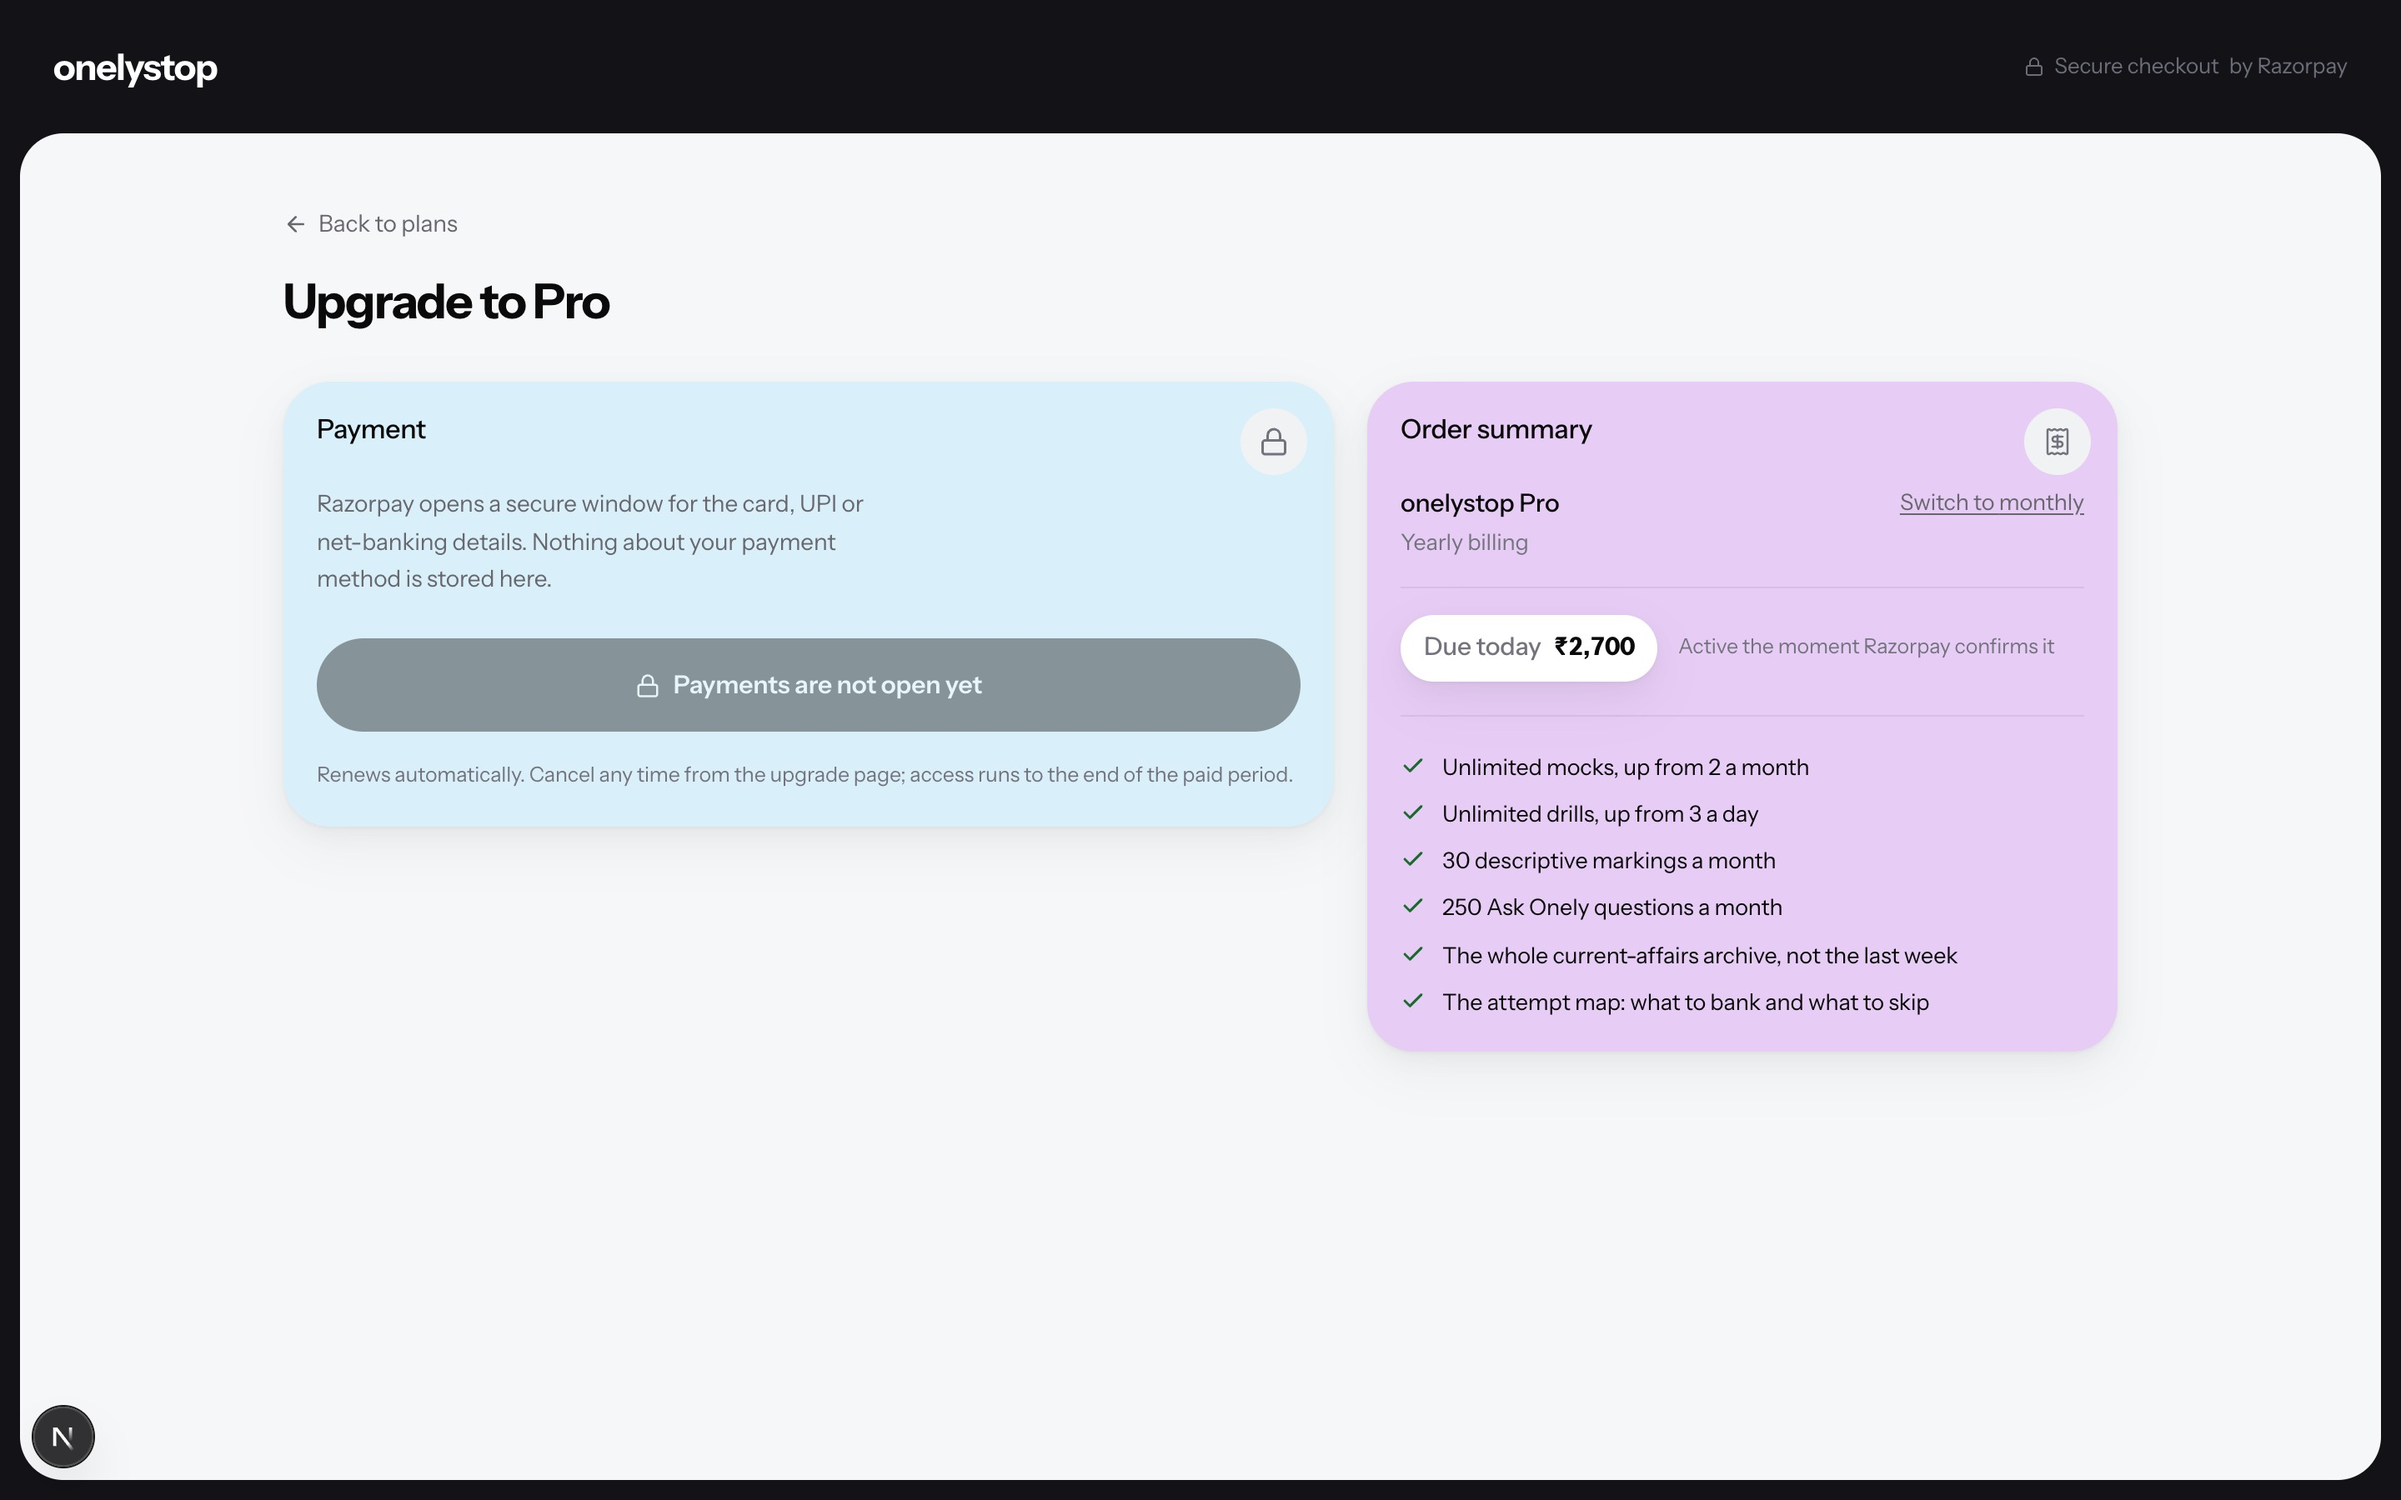
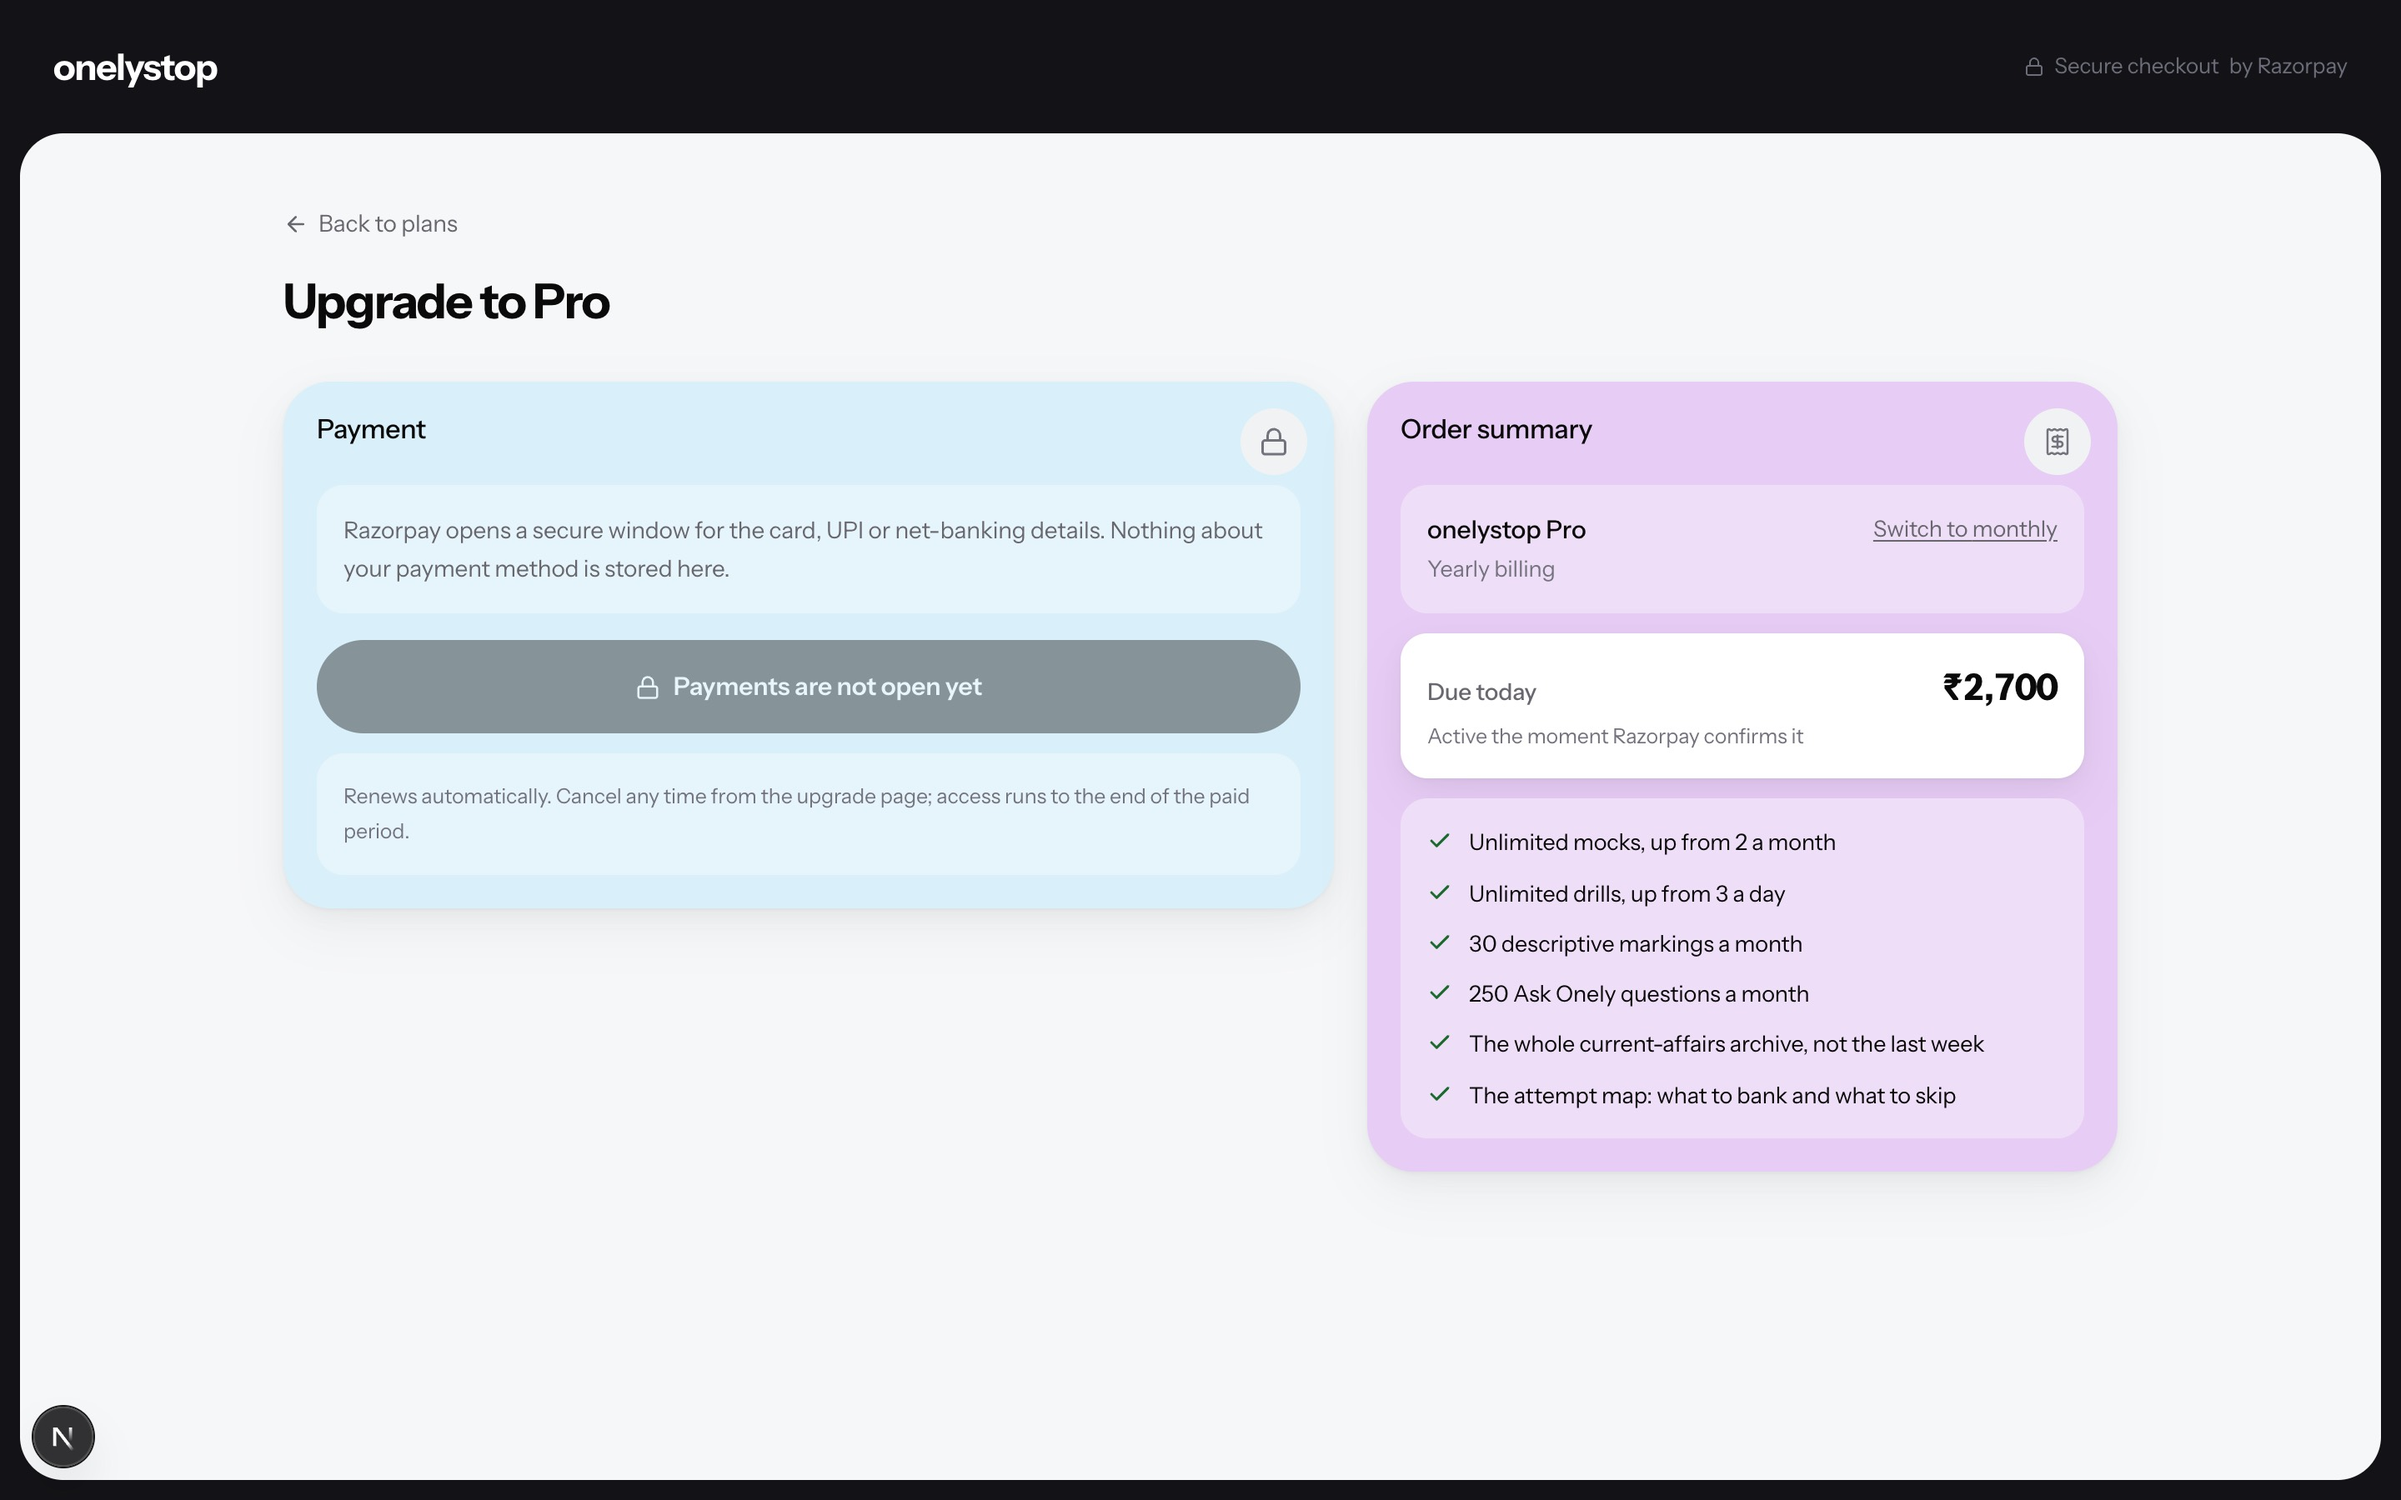
Give the checkout cards their three surfaces
theme.css already says it: "A card that holds a panel needs two depths of one
tint: -soft is the card, -pale the panel inset on it, and white paper sits on
top of both. Three surfaces read as a card; one fill reads as a block."

I had tinted both cards and then laid every row straight onto that one fill, so
they read as blocks. IndexCard gets away with a single fill because it holds no
panels — a title, a blurb and one white pill.

Each panel now sits on the -pale step of its own card's tint, and the price sits
on white paper above both, which is what makes it the thing the eye lands on.
The plan row, the price and the included list are three surfaces rather than
three paragraphs on a wash.

The plans page is untouched.

diff --git a/src/app/(bare)/upgrade/checkout/checkout-view.tsx b/src/app/(bare)/upgrade/checkout/checkout-view.tsx
@@ -18,7 +18,6 @@ import {
   Card,
   CornerBadge,
   SectionTitle,
-  StatusPill,
 } from "@/design-system";
 import {
   PLAN_LIMITS,
@@ -280,11 +279,11 @@ export function CheckoutView({
             <Lock size={18} strokeWidth={2} />
           </CornerBadge>
           <SectionTitle>Payment</SectionTitle>
-          <p className="text-ink-2 max-w-[38ch] text-[14px] leading-relaxed">
+          <p className="bg-info-pale rounded-ctl text-ink-2 p-4 text-[14px] leading-relaxed">
             Razorpay opens a secure window for the card, UPI or net-banking
             details. Nothing about your payment method is stored here.
           </p>
-          <div className="mt-6">
+          <div className="mt-4">
             <Button
               size="lg"
               block
@@ -304,7 +303,7 @@ export function CheckoutView({
               {message}
             </p>
           ) : null}
-          <p className="text-ink-3 mt-4 text-[12.5px] leading-relaxed">
+          <p className="bg-info-pale rounded-ctl text-ink-3 mt-3 p-4 text-[12.5px] leading-relaxed">
             Renews automatically. Cancel any time from the upgrade page; access
             runs to the end of the paid period.
           </p>
@@ -315,7 +314,8 @@ export function CheckoutView({
             <Receipt size={18} strokeWidth={1.75} />
           </CornerBadge>
           <SectionTitle>Order summary</SectionTitle>
-          <div className="border-line flex items-start justify-between gap-4 border-b pb-4">
+
+          <div className="bg-brand-pale rounded-ctl flex items-start justify-between gap-4 p-4">
             <div>
               <div className="text-[15px] font-medium">
                 onelystop {planName}
@@ -333,19 +333,20 @@ export function CheckoutView({
               </Link>
             ) : null}
           </div>
-          <div className="mt-4 flex flex-wrap items-center gap-x-3 gap-y-2">
-            <StatusPill tone="live" className="text-[15px]">
-              <span className="text-ink-3 font-medium">Due today</span>
-              <span className="tnum font-bold">
-                {price ? formatAmount(price.amountMinor, price.currency) : "—"}
-              </span>
-            </StatusPill>
-            <span className="text-ink-3 text-[12.5px]">
+
+          <div className="bg-canvas rounded-ctl shadow-card mt-3 flex flex-wrap items-baseline justify-between gap-x-4 gap-y-1 p-4">
+            <span className="text-ink-2 text-[14px] font-medium">
+              Due today
+            </span>
+            <span className="tnum text-[22px] font-bold tracking-[-0.02em]">
+              {price ? formatAmount(price.amountMinor, price.currency) : "—"}
+            </span>
+            <span className="text-ink-3 w-full text-[12.5px]">
               Active the moment Razorpay confirms it
             </span>
           </div>
 
-          <ul className="border-line mt-5 grid gap-2 border-t pt-5">
+          <ul className="bg-brand-pale rounded-ctl mt-3 grid gap-2.5 p-4">
             {included(plan).map((line) => (
               <li key={line} className="flex items-start gap-2.5 text-[13.5px]">
                 <Check
